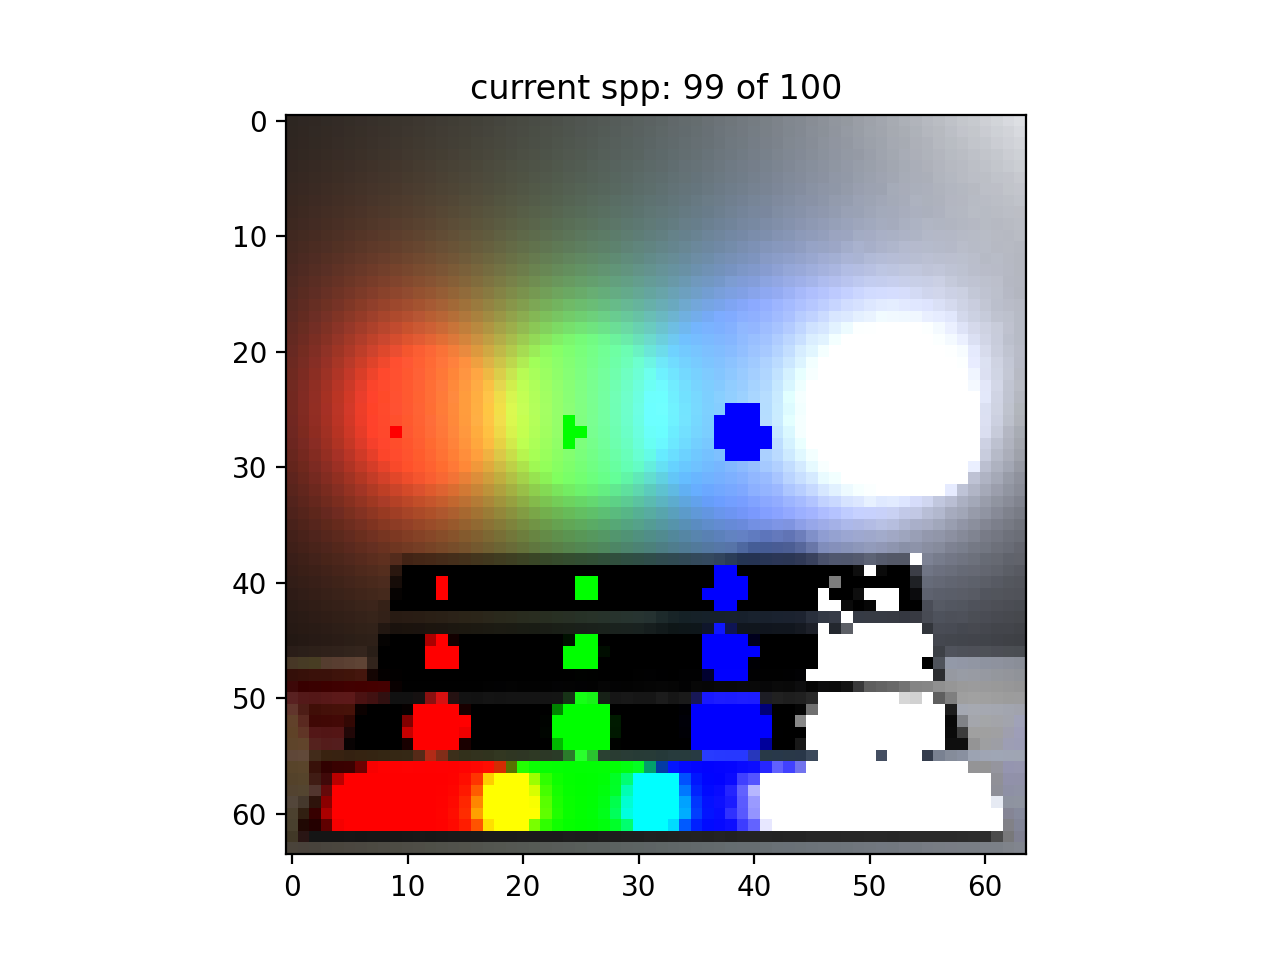
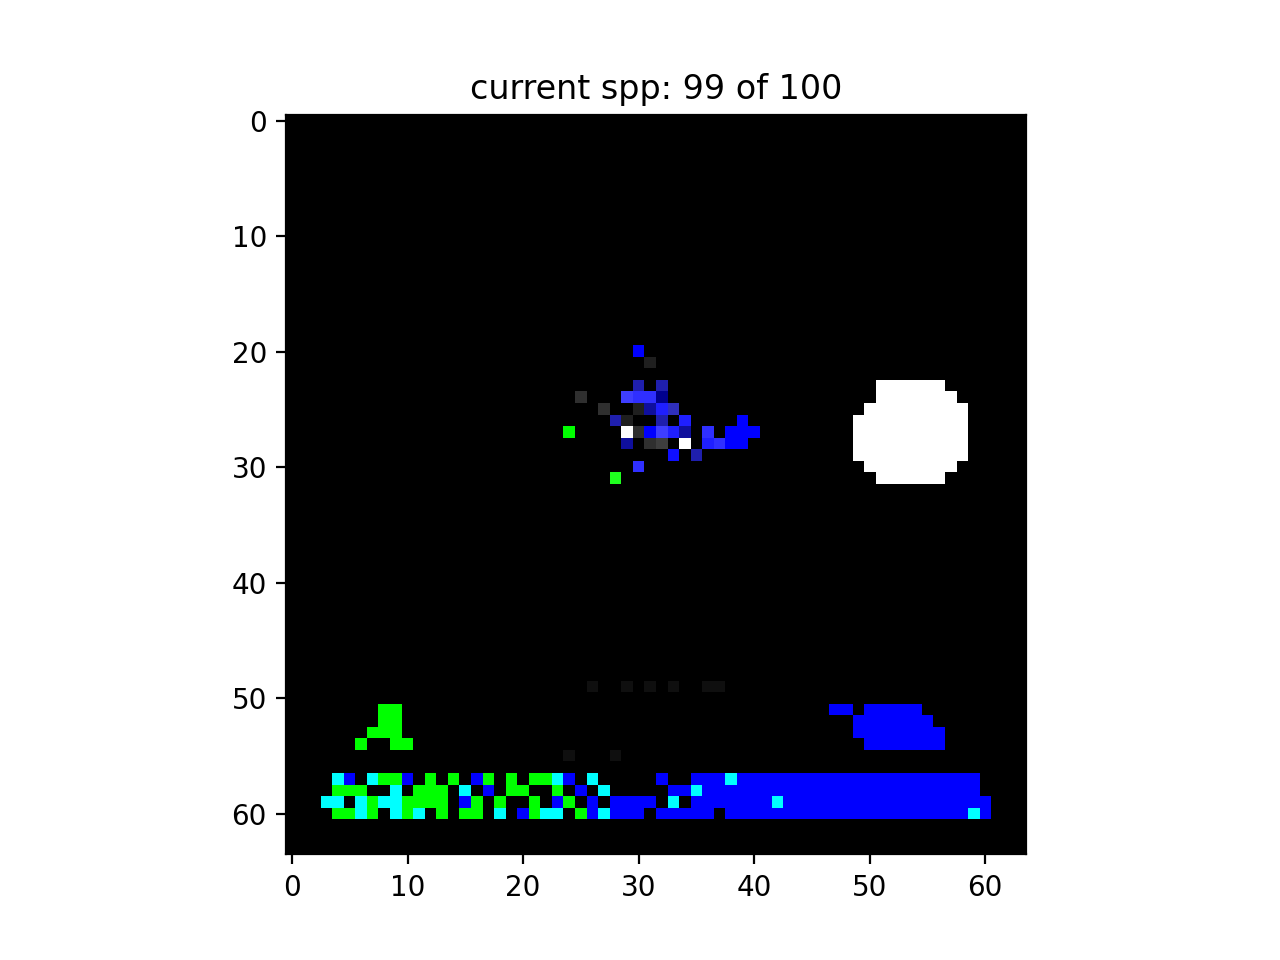
d3 first draft

diff --git a/A3/260923645.py b/A3/260923645.py
@@ -520,22 +520,101 @@ class Scene(object):
 
                 # update L
                 L += (Les*frs*maxes[:, np.newaxis])/p_light_w[..., None]
+            L = np.where(np.logical_and(L_e != np.array(
+                [0, 0, 0]), (ids != -1)[:, np.newaxis]), L_e, L)
+            L = L.reshape((self.h, self.w, 3)) 
         
         elif sampling_type == BRDF_SAMPLING:
             alphas = brdf_params[:, 3]
+            reflectances = brdf_params[:, 0:3]
+
+            print("BRDF")
 
             # generate Ws, canonical orientation
+            sigma1s = np.random.rand(len(eye_rays.Os))
+            sigma2s = np.random.rand(len(eye_rays.Os))
+            wzs = np.power(sigma1s, (1/(alphas+1)))
+            rs = np.sqrt(-np.power(wzs, 2) + 1)
+            thetas = 2*math.pi*sigma2s
+            wxs = rs*np.cos(thetas)
+            wys = rs*np.sin(thetas)
+            Ws = np.stack((wxs, wys, wzs), axis=1)
 
             # calculate wos and wrs
+            wos = -eye_rays.Ds
+            wrs = 2*np.sum(normals*wos, axis=1)[:, np.newaxis]*normals-wos
 
             # rotate Ws orientation
+            sigma1s_2 = np.random.rand(len(eye_rays.Os))
+            sigma2s_2 = np.random.rand(len(eye_rays.Os))
+            wzs_2 = np.power(sigma1s_2, (1/(alphas+1)))
+            rs_2 = np.sqrt(-np.power(wzs_2, 2) + 1)
+            thetas_2 = 2*math.pi*sigma2s_2
+            wxs_2 = rs_2*np.cos(thetas_2)
+            wys_2 = rs_2*np.sin(thetas_2)
+            Ws_2 = np.stack((wxs_2, wys_2, wzs_2), axis=1)
+            
+            centers = np.zeros(shape=normals.shape)
+            centers = np.where((alphas == 1)[..., None], normals, centers)
+            centers = np.where((alphas > 1)[..., None], wrs, centers)
+            As = normalize2D(centers - hit_points)
+            Bs = normalize2D(np.cross(Ws_2, As))
+            Cs = normalize2D(np.cross(As, Bs))
+
+            As_0, Bs_0, Cs_0 = As[:, 0], Bs[:, 0], Cs[:, 0]
+            M_0 = np.stack((Cs_0, Bs_0, As_0), axis=1)
+            As_1, Bs_1, Cs_1= As[:, 1], Bs[:, 1], Cs[:, 1]
+            M_1 = np.stack((Cs_1, Bs_1, As_1), axis=1)
+            As_2, Bs_2, Cs_2 = As[:, 2], Bs[:, 2], Cs[:, 2]
+            M_2 = np.stack((Cs_2, Bs_2, As_2), axis=1)
+
+            Ms = np.stack((M_0, M_1, M_2), axis=1)
+            Ws = np.sum(Ms*Ws[:, None, :], axis=2)
 
             # calculate p_brdf_w
+            p_brdf_ws = np.zeros(shape=(len(ids),))
+
+            # diffuse
+            product_diffuse = np.sum(normals*Ws, axis=1)
+            product_diffuse = np.where(product_diffuse > 0, product_diffuse, 0)
+            product_diffuse = (1/math.pi)*product_diffuse
+            p_brdf_ws = np.where((alphas == 1), product_diffuse, p_brdf_ws)
+
+            # glossy Phong
+            product_phong = np.sum(wrs*Ws, axis=1)
+            product_phong = np.power(product_phong, alphas)
+            product_phong = np.where(product_phong > 0, product_phong, 0)
+            product_phong = ((alphas+1)/(2*math.pi))*product_phong
+            p_brdf_ws = np.where((alphas > 1), product_phong, p_brdf_ws)
+
+            # trace rays in the direction from Ws from hit_points
+            Xs = hit_points + shadow_ray_o_offset*normals
+            shadow_rays = Rays(Xs, Ws)
+
+            # since lights are geometries, check if intersect with lights
+            _, _, lights_ids = self.intersect(shadow_rays)
+
+            # create les
+            Les = np.concatenate((np.array([obj.Le for obj in self.geometries]), np.array(
+                [0, 0, 0])[np.newaxis, :]))[lights_ids]
 
             # calculate direct illumination
+            frs = np.tile(np.array([0, 0, 0]), (len(ids), 1))
+
+            diffuse_reflectances = reflectances/math.pi
+
+            product = (np.sum(wrs*Ws, axis=1))**alphas
+            product = np.where(product > 0, product, 0)
+            specular_reflectances = (
+                (reflectances * (alphas + 1)[:, np.newaxis]) / 2*math.pi) * product[:, np.newaxis]
+            frs = np.where((alphas == 1)[..., None], diffuse_reflectances, frs)
+            frs = np.where((alphas > 1)[..., None], specular_reflectances, frs)
+
+            maxes = np.sum(normals*Ws, axis=1)
+            maxes = np.where(maxes > 0, maxes, 0)
 
             # update L
-            
+            L += Les*frs*maxes[:, np.newaxis]/p_brdf_ws[..., None]
             L = np.where(np.logical_and(L_e != np.array(
                 [0, 0, 0]), (ids != -1)[:, np.newaxis]), L_e, L)
             L = L.reshape((self.h, self.w, 3))         
@@ -573,7 +652,7 @@ class Scene(object):
 
 
 if __name__ == "__main__":
-    enabled_tests = [False, True, False]
+    enabled_tests = [False, False, True, False]
     open("./plate1.obj")
     open("./plate2.obj")
     open("./plate3.obj")
@@ -581,7 +660,7 @@ if __name__ == "__main__":
     open("./floor.obj")
 
     # Create test scene and test sphere
-    scene = Scene(w=int(64), h=int(64))  # TODO: debug at lower resolution
+    scene = Scene(w=int(512), h=int(512))  # TODO: debug at lower resolution
     scene.set_camera_parameters(
         eye=np.array([0, 2, 15], dtype=np.float64),
         at=normalize(np.array([0, -2, 2.5], dtype=np.float64)),
@@ -635,10 +714,18 @@ if __name__ == "__main__":
         scene.progressive_render_display(
             total_spp=100, jitter=True, sampling_type=LIGHT_SAMPLING)
 
+    if enabled_tests[2]:
+        scene.progressive_render_display(
+            total_spp=1, jitter=True, sampling_type=BRDF_SAMPLING)
+        scene.progressive_render_display(
+            total_spp=10, jitter=True, sampling_type=BRDF_SAMPLING)
+        scene.progressive_render_display(
+            total_spp=100, jitter=True, sampling_type=BRDF_SAMPLING)
+
     #########################################################################
     # Deliverable 3 TEST (Only for ECSE 546 students!): comment/modify as you see fit
     #########################################################################
-    if enabled_tests[2]:
+    if enabled_tests[3]:
         scene.progressive_render_display(
             total_spp=1, jitter=True, sampling_type=MIS_SAMPLING)
         scene.progressive_render_display(
